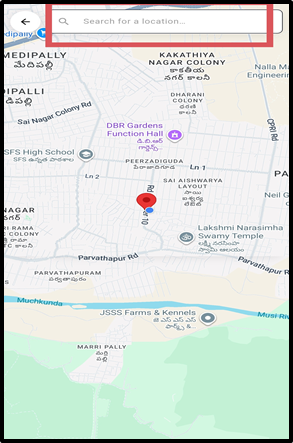
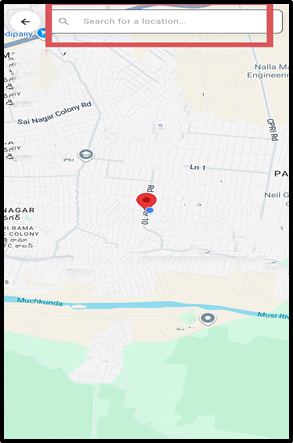
changes to the driver document

diff --git a/documentation/DRIVER_APP_FEATURES.md b/documentation/DRIVER_APP_FEATURES.md
@@ -2,10 +2,6 @@
 
 **Feature Documentation**
 
-- **Platform:** Android / iOS (Flutter)
-- **Version:** 1.0
-- **Last Updated:** April 2026
-
 ---
 
 ## Table of Contents
